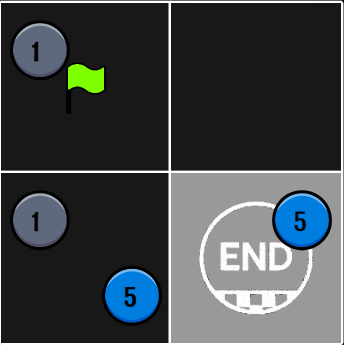
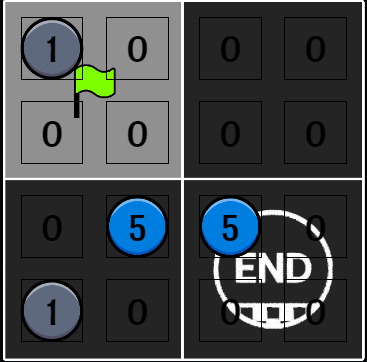
tps update

diff --git a/src/docs/gameDocs/TeleporterMaze.jsx b/src/docs/gameDocs/TeleporterMaze.jsx
@@ -220,14 +220,15 @@ const TeleporterMaze = {
                   >
                     <li>Select a cell for the next path step.</li>
                     <li>
-                      Enter the next teleporter number (e.g., 5) in one of the 4
-                      bottom panel input boxes (use 0 to clear).
+                      Click on the cell to activate its input field. Enter the
+                      next teleporter number (e.g., 5) directly into the cell's
+                      input (use 0 to clear). The teleporter will automatically
+                      create and display as you type.
                     </li>
                     <li>
-                      Click <strong>"Set Teleporters"</strong> (orange) to add
-                      the colored marker. Repeat for the full chain.
+                      Repeat for the full chain, ensuring the last teleporter
+                      leads to the End cell.
                     </li>
-                    <li>Ensure the last teleporter leads to the End cell.</li>
                   </Box>
                   <Typography
                     variant="caption"
@@ -259,8 +260,8 @@ const TeleporterMaze = {
             <Grid item xs={12} sm={6}>
               <TutorialImage
                 src="/images/docs/teleporter-set-tps.png"
-                alt="Bottom panel with teleporter number inputs"
-                caption="Set #5 to continue from #1. Build a chain like #1 → #5 → #8 → #21 → End."
+                alt="Cell with direct teleporter input"
+                caption="Click a cell and enter #5 directly to set it. Build a chain like #1 → #5 → #8 → #21 → End."
                 width={250}
                 maxWidth="100%"
               />
